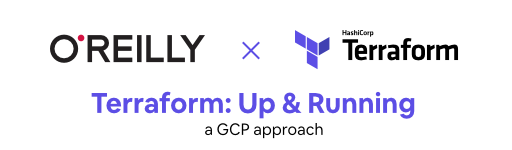
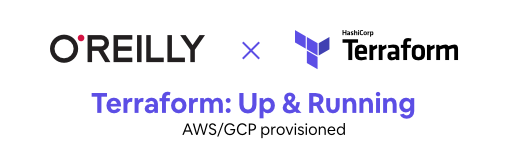
adds AWS and beginning of chapter 3

Changed region(s): [[0.3438, 0.8, 0.6875, 0.9333]]

diff --git a/README.md b/README.md
@@ -4,19 +4,35 @@
 
 <br />
 
-<div align="center">A GCP approach to "Terraform: Up and Running" published by O'Reilly</div>
+<div align="center">AWS/GCP provisioned with "Terraform: Up and Running" published by O'Reilly</div>
 
 <br />
 
 ## Prerequisites
 
-To run the examples in the repository, you need to have a valid GCP keyfile for a role with the right level of permissions. Specify the path to that keyfile via the environment variable `GOOGLE_CLOUD_KEYFILE_JSON`:
+### Amazon Web Services
+To run the AWS related examples in the repository, you need to have your AWS credentials accessible through environment variables. Specify those in `AWS_ACCESS_KEY_ID`, `AWS_SECRET_ACCESS_KEY` and `AWS_DEFAULT_REGION`:
+
+```bash
+export AWS_ACCESS_KEY_ID=""
+export AWS_SECRET_ACCESS_KEY=""
+export AWS_DEFAULT_REGION="us-east-1"
+```
+
+### Google Cloud Platform
+To run the GCP related examples in the repository, you need to have a valid GCP keyfile for a role with the right level of permissions. Specify the path to that keyfile via the environment variable `GOOGLE_CLOUD_KEYFILE_JSON`:
 
 ```bash
 export GOOGLE_CLOUD_KEYFILE_JSON=./keyfile.json
 ```
 
 ## How to use
+
+To preview incoming changes to the infrastructure, run the following command:
+
+```bash
+terraform plan
+```
 
 To provision the infrastructure, simply apply the Terraform configuration:
 
